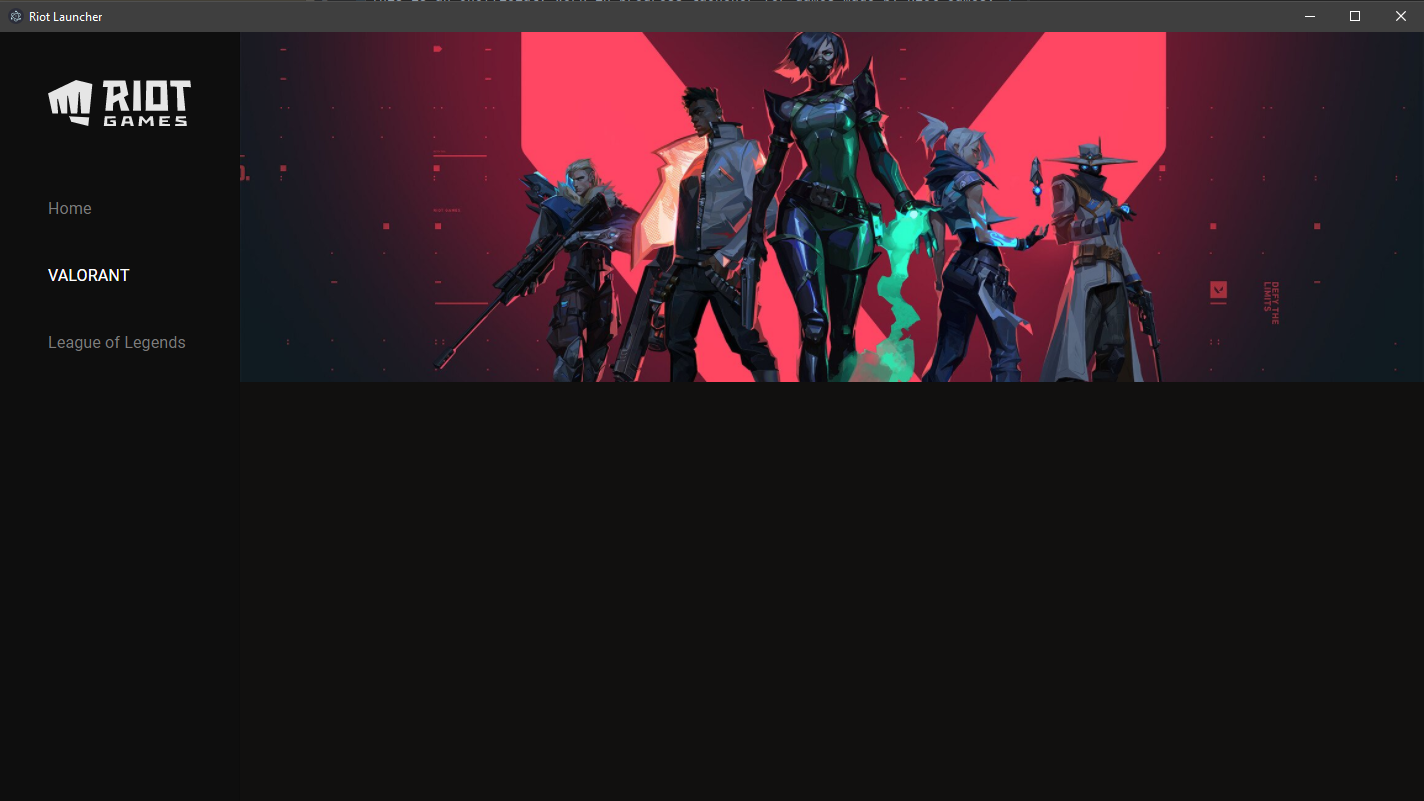
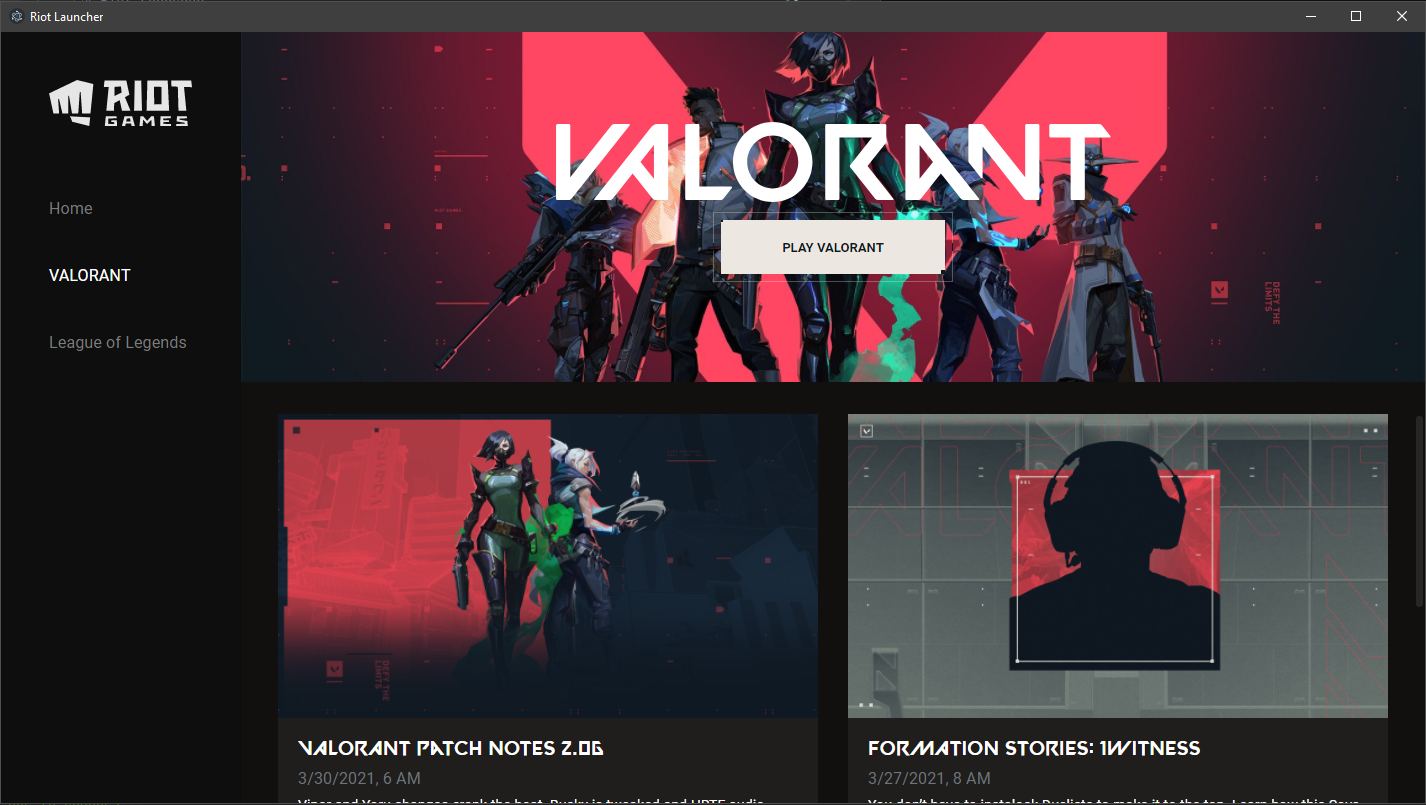
Reformatted and updated image in README

diff --git a/src/components/valorant/Valorant.tsx b/src/components/valorant/Valorant.tsx
@@ -37,8 +37,10 @@ export default function Valorant() {
     const fetchData = () => {
         request(
             'https://playvalorant.com/page-data/' + newsLang + '/news/page-data.json',
-            { json: true }, (err:any, res:any, body:any) => {
-                if (err) { return console.log(err); }
+            {json: true}, (err: any, res: any, body: any) => {
+                if (err) {
+                    return console.log(err);
+                }
                 try {
                     console.log(body['result']['data'])
                     // let news = [...body['result']['data']['contentstackNews']['featured_news']['reference']];
@@ -59,12 +61,18 @@ export default function Valorant() {
             <Jumbotron fluid className={`vertical-center rounded-0 ${classes.jumboBackground}`}>
                 <Container>
                     <div className={"align-items-center w-100 d-flex justify-content-center"}>
-                        <h1 className={"m-0 p-0 display-3 align-middle d-flex justify-content-center"} id={"valorant-logo"}>
-                            <svg viewBox="0 0 690 98.9"><path d="M615.11 19.15h24.69l.08 75.59c0 .97.79 1.77 1.77 1.77l14.14-.01c.98 0 1.77-.79 1.77-1.77l-.08-75.58h30.96c.91 0 1.43-1.06.85-1.77l-10.6-13.26a4.68 4.68 0 00-3.65-1.76h-59.93c-.98 0-1.77.79-1.77 1.77v13.26c0 .96.79 1.76 1.77 1.76M19.25 94.75L91.67 4.13c.57-.71.06-1.77-.85-1.77H72.71c-1.42 0-2.77.65-3.65 1.76L17.68 68.4V4.12c0-.98-.79-1.77-1.77-1.77H1.77C.79 2.35 0 3.14 0 4.12v90.62c0 .98.79 1.77 1.77 1.77H15.6c1.42 0 2.76-.65 3.65-1.76m51.06 0l24.91-31.17 24.91 31.17a4.685 4.685 0 003.66 1.76h13.83c.98 0 1.77-.79 1.77-1.77V4.12c0-.97-.79-1.77-1.77-1.77h-11.6c-2.84 0-5.53 1.29-7.31 3.51L47.69 94.73c-.57.71-.06 1.77.85 1.77h18.11c1.43.01 2.77-.64 3.66-1.75m51.39-66.21v41.75l-16.68-20.87 16.68-20.88zm404.37 66.19L453.65 4.11A4.68 4.68 0 00450 2.35h-13.84c-.98 0-1.77.79-1.77 1.77v90.62c0 .98.79 1.77 1.77 1.77h13.83c1.42 0 2.77-.65 3.65-1.76l24.91-31.17 24.91 31.17a4.68 4.68 0 003.65 1.76h18.11c.91 0 1.42-1.06.85-1.78m-57.33-45.31L452.05 70.3V28.54l16.69 20.88zM269.45 0c-27.3 0-49.43 22.13-49.43 49.43s22.13 49.43 49.43 49.43 49.43-22.13 49.43-49.43C318.89 22.13 296.75 0 269.45 0m0 82.06c-17.54 0-31.75-14.61-31.75-32.63 0-18.02 14.21-32.64 31.75-32.64S301.2 31.4 301.2 49.43c.01 18.02-14.21 32.63-31.75 32.63M583.38 4.12V68.4L532 4.11a4.68 4.68 0 00-3.65-1.76H514.5c-.97 0-1.77.79-1.77 1.77v43.67c0 1.06.36 2.09 1.03 2.92l14.71 18.41c.65.81 1.95.35 1.95-.68v-38l51.39 64.31a4.68 4.68 0 003.65 1.76h13.83c.98 0 1.77-.79 1.77-1.77V4.12c0-.97-.79-1.77-1.77-1.77h-14.14c-.98 0-1.77.8-1.77 1.77M410.62 23.76V4.12c0-.98-.79-1.77-1.77-1.77h-72.37c-.98 0-1.77.79-1.77 1.77v90.62c0 .98.79 1.77 1.77 1.77h14.14c.98 0 1.77-.79 1.77-1.77V19.16h40.55l-27.37 34.26c-.51.64-.51 1.56 0 2.21l31.27 39.13a4.68 4.68 0 003.65 1.76h18.11c.91 0 1.42-1.06.85-1.77l-32.14-40.21 22.28-27.84c.66-.85 1.03-1.88 1.03-2.94M162.39 96.51h41.96c1.42 0 2.77-.65 3.65-1.76l10.6-13.27c.57-.71.06-1.77-.85-1.77H178.3V4.12c0-.98-.79-1.77-1.77-1.77h-14.14c-.98 0-1.77.79-1.77 1.77v90.62c0 .97.8 1.77 1.77 1.77"/></svg>
+                        <h1 className={"m-0 p-0 display-3 align-middle d-flex justify-content-center"}
+                            id={"valorant-logo"}>
+                            <svg viewBox="0 0 690 98.9">
+                                <path
+                                    d="M615.11 19.15h24.69l.08 75.59c0 .97.79 1.77 1.77 1.77l14.14-.01c.98 0 1.77-.79 1.77-1.77l-.08-75.58h30.96c.91 0 1.43-1.06.85-1.77l-10.6-13.26a4.68 4.68 0 00-3.65-1.76h-59.93c-.98 0-1.77.79-1.77 1.77v13.26c0 .96.79 1.76 1.77 1.76M19.25 94.75L91.67 4.13c.57-.71.06-1.77-.85-1.77H72.71c-1.42 0-2.77.65-3.65 1.76L17.68 68.4V4.12c0-.98-.79-1.77-1.77-1.77H1.77C.79 2.35 0 3.14 0 4.12v90.62c0 .98.79 1.77 1.77 1.77H15.6c1.42 0 2.76-.65 3.65-1.76m51.06 0l24.91-31.17 24.91 31.17a4.685 4.685 0 003.66 1.76h13.83c.98 0 1.77-.79 1.77-1.77V4.12c0-.97-.79-1.77-1.77-1.77h-11.6c-2.84 0-5.53 1.29-7.31 3.51L47.69 94.73c-.57.71-.06 1.77.85 1.77h18.11c1.43.01 2.77-.64 3.66-1.75m51.39-66.21v41.75l-16.68-20.87 16.68-20.88zm404.37 66.19L453.65 4.11A4.68 4.68 0 00450 2.35h-13.84c-.98 0-1.77.79-1.77 1.77v90.62c0 .98.79 1.77 1.77 1.77h13.83c1.42 0 2.77-.65 3.65-1.76l24.91-31.17 24.91 31.17a4.68 4.68 0 003.65 1.76h18.11c.91 0 1.42-1.06.85-1.78m-57.33-45.31L452.05 70.3V28.54l16.69 20.88zM269.45 0c-27.3 0-49.43 22.13-49.43 49.43s22.13 49.43 49.43 49.43 49.43-22.13 49.43-49.43C318.89 22.13 296.75 0 269.45 0m0 82.06c-17.54 0-31.75-14.61-31.75-32.63 0-18.02 14.21-32.64 31.75-32.64S301.2 31.4 301.2 49.43c.01 18.02-14.21 32.63-31.75 32.63M583.38 4.12V68.4L532 4.11a4.68 4.68 0 00-3.65-1.76H514.5c-.97 0-1.77.79-1.77 1.77v43.67c0 1.06.36 2.09 1.03 2.92l14.71 18.41c.65.81 1.95.35 1.95-.68v-38l51.39 64.31a4.68 4.68 0 003.65 1.76h13.83c.98 0 1.77-.79 1.77-1.77V4.12c0-.97-.79-1.77-1.77-1.77h-14.14c-.98 0-1.77.8-1.77 1.77M410.62 23.76V4.12c0-.98-.79-1.77-1.77-1.77h-72.37c-.98 0-1.77.79-1.77 1.77v90.62c0 .98.79 1.77 1.77 1.77h14.14c.98 0 1.77-.79 1.77-1.77V19.16h40.55l-27.37 34.26c-.51.64-.51 1.56 0 2.21l31.27 39.13a4.68 4.68 0 003.65 1.76h18.11c.91 0 1.42-1.06.85-1.77l-32.14-40.21 22.28-27.84c.66-.85 1.03-1.88 1.03-2.94M162.39 96.51h41.96c1.42 0 2.77-.65 3.65-1.76l10.6-13.27c.57-.71.06-1.77-.85-1.77H178.3V4.12c0-.98-.79-1.77-1.77-1.77h-14.14c-.98 0-1.77.79-1.77 1.77v90.62c0 .97.8 1.77 1.77 1.77"/>
+                            </svg>
                         </h1>
                     </div>
                     <div id={"start-valorant-container"}>
-                        <a onClick={() => {launchValorant()}} className="white unselectable">
+                        <a onClick={() => {
+                            launchValorant()
+                        }} className="white unselectable">
                             <p>
                                 <span className="bg"/>
                                 <span className="base"/>
@@ -74,7 +82,7 @@ export default function Valorant() {
                     </div>
                 </Container>
             </Jumbotron>
-            <SimpleBar style={{ maxHeight: max_height }}>
+            <SimpleBar style={{maxHeight: max_height}} autoHide={false} scrollbarMinSize={40}>
                 <Container className={"mb-5"}>
                     <Row>
                         {vNews.map((element) => {
@@ -82,14 +90,16 @@ export default function Valorant() {
                             return (
                                 <div className={"col-6"}>
                                     <Card className={'text-white mb-4 mr-4 mr-4 col-12 p-0 border-0 valorant-card'}>
-                                        <Card.Img variant={"top"} className={"w-100 border-0"} src={element['banner']['url']} />
+                                        <Card.Img variant={"top"} className={"w-100 border-0"}
+                                                  src={element['banner']['url']}/>
                                         <Card.Body>
                                             <Card.Title className={"valorant-font"}>
                                                 <Container className={"p-0"}>
                                                     <span>{element['title']}</span>
                                                 </Container>
                                             </Card.Title>
-                                            <Card.Subtitle className="mb-2 text-muted">{new Date(element['date']).toLocaleString(undefined).replaceAll(":00", "")}</Card.Subtitle>
+                                            <Card.Subtitle
+                                                className="mb-2 text-muted">{new Date(element['date']).toLocaleString(undefined).replaceAll(":00", "")}</Card.Subtitle>
                                             <Card.Text>
                                                 {element['description']}
                                             </Card.Text>

diff --git a/public/index.html b/public/index.html
@@ -1,43 +1,43 @@
 <!DOCTYPE html>
 <html lang="en">
-  <head>
-    <meta charset="utf-8" />
-    <link rel="icon" href="%PUBLIC_URL%/favicon.ico" />
-    <meta name="viewport" content="width=device-width, initial-scale=1" />
-    <meta name="theme-color" content="#000000" />
-    <meta
+<head>
+  <meta charset="utf-8"/>
+  <link rel="icon" href="%PUBLIC_URL%/favicon.ico"/>
+  <meta name="viewport" content="width=device-width, initial-scale=1"/>
+  <meta name="theme-color" content="#000000"/>
+  <meta
       name="description"
       content="Web site created using create-react-app"
-    />
-    <link rel="apple-touch-icon" href="%PUBLIC_URL%/logo192.png" />
-    <!--
-      manifest.json provides metadata used when your web app is installed on a
-      user's mobile device or desktop. See https://developers.google.com/web/fundamentals/web-app-manifest/
-    -->
-    <link rel="manifest" href="%PUBLIC_URL%/manifest.json" />
-    <!--
-      Notice the use of %PUBLIC_URL% in the tags above.
-      It will be replaced with the URL of the `public` folder during the build.
-      Only files inside the `public` folder can be referenced from the HTML.
+  />
+  <link rel="apple-touch-icon" href="%PUBLIC_URL%/logo192.png"/>
+  <!--
+    manifest.json provides metadata used when your web app is installed on a
+    user's mobile device or desktop. See https://developers.google.com/web/fundamentals/web-app-manifest/
+  -->
+  <link rel="manifest" href="%PUBLIC_URL%/manifest.json"/>
+  <!--
+    Notice the use of %PUBLIC_URL% in the tags above.
+    It will be replaced with the URL of the `public` folder during the build.
+    Only files inside the `public` folder can be referenced from the HTML.
 
-      Unlike "/favicon.ico" or "favicon.ico", "%PUBLIC_URL%/favicon.ico" will
-      work correctly both with client-side routing and a non-root public URL.
-      Learn how to configure a non-root public URL by running `npm run build`.
-    -->
-    <title>Riot Launcher</title>
-  </head>
-  <body>
-    <noscript>You need to enable JavaScript to run this app.</noscript>
-    <div id="root"></div>
-    <!--
-      This HTML file is a template.
-      If you open it directly in the browser, you will see an empty page.
+    Unlike "/favicon.ico" or "favicon.ico", "%PUBLIC_URL%/favicon.ico" will
+    work correctly both with client-side routing and a non-root public URL.
+    Learn how to configure a non-root public URL by running `npm run build`.
+  -->
+  <title>Riot Launcher</title>
+</head>
+<body>
+<noscript>You need to enable JavaScript to run this app.</noscript>
+<div id="root"></div>
+<!--
+  This HTML file is a template.
+  If you open it directly in the browser, you will see an empty page.
 
-      You can add webfonts, meta tags, or analytics to this file.
-      The build step will place the bundled scripts into the <body> tag.
+  You can add webfonts, meta tags, or analytics to this file.
+  The build step will place the bundled scripts into the <body> tag.
 
-      To begin the development, run `npm start` or `yarn start`.
-      To create a production bundle, use `npm run build` or `yarn build`.
-    -->
-  </body>
+  To begin the development, run `npm start` or `yarn start`.
+  To create a production bundle, use `npm run build` or `yarn build`.
+-->
+</body>
 </html>

diff --git a/src/components/valorant/Valorant.scss b/src/components/valorant/Valorant.scss
@@ -55,6 +55,7 @@ button.left:after {
   transform: skew(-20deg);
   transition: width .2s;
 }
+
 button.left:hover:after {
   width: calc(100% + .6em);
 }
@@ -96,6 +97,7 @@ button.right:hover:after {
   justify-content: center;
   flex-flow: column;
   align-items: center;
+
   & a {
     width: 100%;
     max-width: 240px;
@@ -109,29 +111,37 @@ button.right:hover:after {
     box-shadow: 0 0 0 1px inset rgba($white, 0.3);
     position: relative;
     margin: 10px 0;
+
     &.white:hover > p {
       color: $white;
     }
+
     &.white > p {
       background: $white;
       color: $base;
+
       & span.base {
         border: 1px solid transparent;
       }
     }
+
     &.transparent:hover > p {
       color: $white;
+
       & span.text {
         box-shadow: 0 0 0 1px $white;
       }
     }
+
     &.transparent > p {
       background: $base;
       color: $white;
+
       & span.base {
         border: 1px solid $white;
       }
     }
+
     &:after,
     &:before {
       content: "";
@@ -143,10 +153,12 @@ button.right:hover:after {
       top: 50%;
       transform: translateY(-50%);
     }
+
     &:before {
       right: 0;
       left: initial;
     }
+
     & p {
       margin: 0;
       height: $height;
@@ -157,6 +169,7 @@ button.right:hover:after {
       width: 100%;
       position: relative;
       overflow: hidden;
+
       & span.base {
         box-sizing: border-box;
         position: absolute;
@@ -165,6 +178,7 @@ button.right:hover:after {
         height: 100%;
         left: 0;
         border: 1px solid $pink;
+
         &:before {
           content: "";
           width: 2px;
@@ -176,6 +190,7 @@ button.right:hover:after {
           transition: $transition;
         }
       }
+
       & span.bg {
         left: -5%;
         position: absolute;
@@ -186,6 +201,7 @@ button.right:hover:after {
         transition: $transition;
         transform: skewX(-10deg);
       }
+
       & span.text {
         z-index: 4;
         width: 100%;
@@ -193,6 +209,7 @@ button.right:hover:after {
         position: absolute;
         left: 0;
         top: 0;
+
         &:after {
           content: "";
           width: 4px;
@@ -206,12 +223,15 @@ button.right:hover:after {
         }
       }
     }
+
     &:hover {
       cursor: pointer;
       color: $white;
+
       & span.bg {
         width: 110%;
       }
+
       & span.text:after {
         background: $white;
       }

diff --git a/src/components/sidebar/SideBar.tsx b/src/components/sidebar/SideBar.tsx
@@ -1,4 +1,4 @@
-import { createStyles, Theme, makeStyles } from '@material-ui/core/styles';
+import {createStyles, Theme, makeStyles} from '@material-ui/core/styles';
 import Drawer from '@material-ui/core/Drawer';
 import CssBaseline from '@material-ui/core/CssBaseline';
 import riot_logo from "../../assets/white-riot-logo.svg";
@@ -33,9 +33,7 @@ const useStyles = makeStyles((theme: Theme) =>
             backgroundColor: theme.palette.background.default,
             padding: theme.spacing(3),
         },
-        riotLogo: {
-
-        }
+        riotLogo: {}
     }),
 );
 
@@ -43,7 +41,7 @@ export default function SideBar() {
     const classes = useStyles();
     return (
         <div className={`${classes.root} unselectable`}>
-            <CssBaseline />
+            <CssBaseline/>
             <Drawer
                 className={classes.drawer}
                 variant="permanent"
@@ -52,12 +50,13 @@ export default function SideBar() {
                 }}
                 anchor="left"
             >
-                <img src={riot_logo} className={'mb-5 ml-5 mt-5 mr-5 no-antialising'}  alt={"The Riot Games logo"}/>
+                <img src={riot_logo} className={'mb-5 ml-5 mt-5 mr-5 no-antialising'} alt={"The Riot Games logo"}/>
                 <div className={'mt-4 ml-5 text-white'}>
                     <HashRouter>
                         <h6 className={"mb-5"}><NavLink exact className={"no-url"} to={"/"}>Home</NavLink></h6>
                         <h6 className={"mb-5"}><NavLink className={"no-url"} to={"/valorant"}>VALORANT</NavLink></h6>
-                        <h6 className={"mb-5"}><NavLink className={"no-url"} to={"/lol"}>League of Legends</NavLink></h6>
+                        <h6 className={"mb-5"}><NavLink className={"no-url"} to={"/lol"}>League of Legends</NavLink>
+                        </h6>
                         {/*<h6 className={"mb-5"}>Teamfight Tactics</h6>*/}
                         {/*<h6 className={"mb-5"}>Legends of Runeterra</h6>*/}
                     </HashRouter>

diff --git a/public/electron.js b/public/electron.js
@@ -1,13 +1,12 @@
-const { app, BrowserWindow, ipcMain } = require('electron');
+const {app, BrowserWindow, ipcMain} = require('electron');
 const path = require('path');
-const isDev = require('electron-is-dev');
 const child = require('child_process').execFile;
 
 const valorantPath = "C:\\Riot Games\\Riot Client\\RiotClientServices.exe";
 const valorantParamaters = ["--launch-product=valorant", "--launch-patchline=live"];
 const valorantRunFile = "\"C:\\Riot Games\\Riot Client\\RiotClientServices.exe\" --launch-product=valorant --launch-patchline=live";
 
-function createWindow () {
+function createWindow() {
   const win = new BrowserWindow({
     width: 1440,
     height: 810,
@@ -24,13 +23,12 @@ function createWindow () {
   win.setMenuBarVisibility(false);
 
   win.loadURL(
-      isDev ? "http://localhost:3000" : `file://${path.join(__dirname, "../build/index.html")}`
+      app.isPackaged ? "http://localhost:3000" : `file://${path.join(__dirname, "../build/index.html")}`
   );
 }
 
 app.whenReady().then(() => {
   createWindow();
-
   app.on('activate', () => {
     if (BrowserWindow.getAllWindows().length === 0) {
       createWindow();

diff --git a/src/App.scss b/src/App.scss
@@ -1,26 +1,25 @@
 $body-background: rgb(17, 16, 15);
-$scrollbar-color: rgb(41, 41, 41);
+$scrollbar-color: rgb(60, 60, 60);
 
 :root body {
-    background-color: $body-background;
-    overflow: hidden;
+  background-color: $body-background;
+  overflow: hidden;
 }
 
-
 .simplebar-scrollbar::before {
-    background-color: $scrollbar-color !important;
+  background-color: $scrollbar-color !important;
 }
 
 *.unselectable {
-    -moz-user-select: -moz-none;
-    -khtml-user-select: none;
-    -webkit-user-select: none;
+  -moz-user-select: -moz-none;
+  -khtml-user-select: none;
+  -webkit-user-select: none;
 
-    /*
-      Introduced in IE 10.
-      See http://ie.microsoft.com/testdrive/HTML5/msUserSelect/
-    */
-    -ms-user-select: none;
-    user-select: none;
+  /*
+    Introduced in IE 10.
+    See http://ie.microsoft.com/testdrive/HTML5/msUserSelect/
+  */
+  -ms-user-select: none;
+  user-select: none;
 }
 

diff --git a/README.md b/README.md
@@ -1,12 +1,19 @@
 # Riot Launcher
+
 This is an unofficial, work in progress launcher for games made by Riot Games.
 
 ## Screen Shots
+
 ![photo](github_screen_shots/homescreen.PNG)
 ![photo](github_screen_shots/lol.PNG)
 ![photo](github_screen_shots/valorant.PNG)
 
+## TODO
+
+- Check if game is installed
+
 ## Credits
+
 VALORANT Font - https://www.reddit.com/r/VALORANT/comments/g0747t/valorant_font/
 
 Riot Games Launcher Design Idea - https://dribbble.com/shots/9369993-Riot-Games-Game-Launcher-UI-UX-Design
